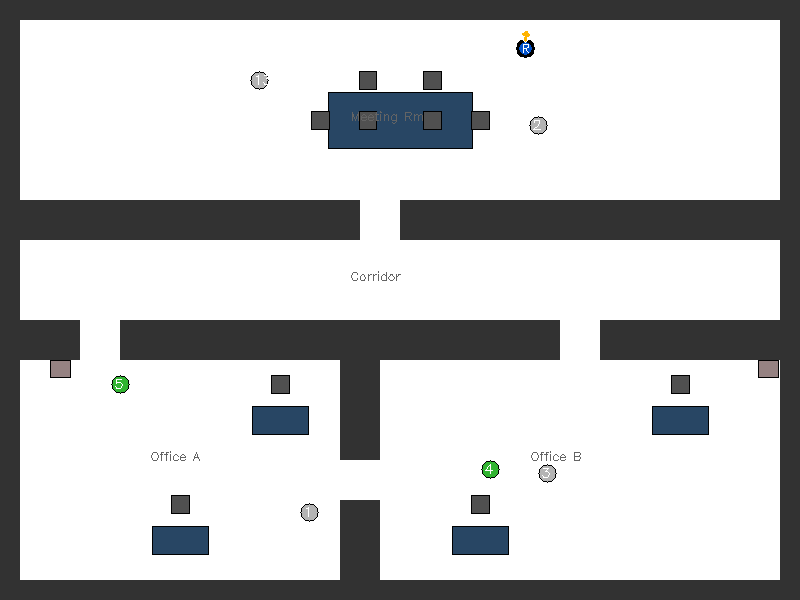
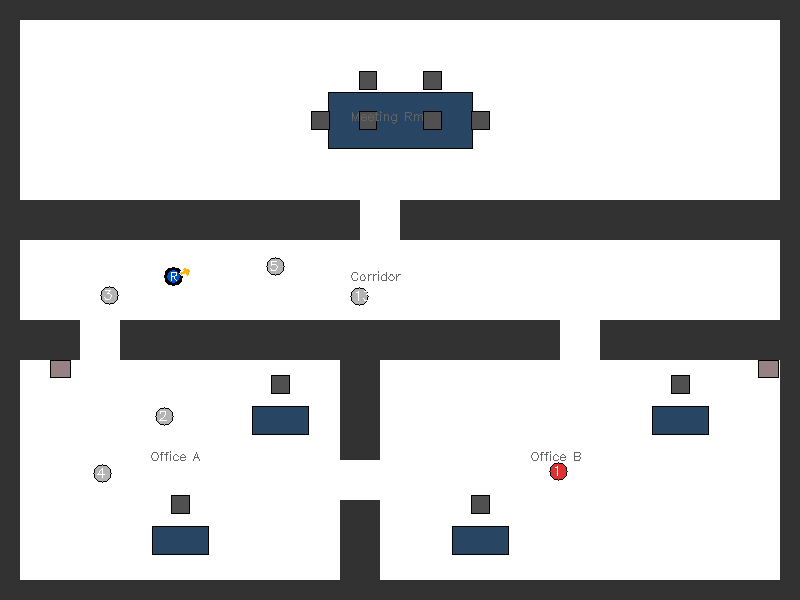
minor doc updates

diff --git a/scripts/world_state.py b/scripts/world_state.py
@@ -468,7 +468,7 @@ def main() -> None:
         print(
             f"ERROR: {state_path} not found.\n"
             "Simulation is not running — start one with:\n"
-            "  ./scripts/run_scenario.sh config/scenarios/office_explore_detect.yaml --headless",
+            "  ./scripts/run_scenario.sh config/scenarios/office_explore_detect/easy.yaml --headless",
             file=sys.stderr,
         )
         sys.exit(1)

diff --git a/docs/ROADMAP.md b/docs/ROADMAP.md
@@ -15,7 +15,7 @@ Current state lives in [`STATE.md`](STATE.md). History lives in closed issues + 
 
 ## Next
 
-_Nothing currently in progress. Check the backlog or open a new issue._
+- [#18](https://github.com/thaije/robot-sandbox/issues/18) — Butter Bot scenario (diner table push-delivery, new robot + world template + pushable physics)
 
 ---
 

diff --git a/docs/AUTONOMOUS_AGENT_GUIDE.md b/docs/AUTONOMOUS_AGENT_GUIDE.md
@@ -89,6 +89,7 @@ Ground robot (differential drive — currently the only supported model).
 | RGBD — intrinsics | `/derpbot_0/rgbd/camera_info` | 10 Hz | `sensor_msgs/CameraInfo` — required for 3-D back-projection |
 | RGBD — point cloud | `/derpbot_0/rgbd/points` | 10 Hz | `sensor_msgs/PointCloud2` — **off by default**, enable with `--enable-pointcloud` |
 | Odometry | `/derpbot_0/odom` | — | `nav_msgs/Odometry`, IMU-fused (EKF) — yaw drift corrected |
+| Bumper (contact) | `/derpbot_0/bumper_contact` | 10 Hz | `ros_gz_interfaces/msg/Contacts` — fires for **all** contacts including ground plane; filter ground-plane contacts to detect collisions |
 | Raw wheel odometry | `/derpbot_0/odom_raw` | — | `nav_msgs/Odometry`, raw wheel-encoder dead-reckoning (for custom sensor fusion) |
 
 ### Control & TF